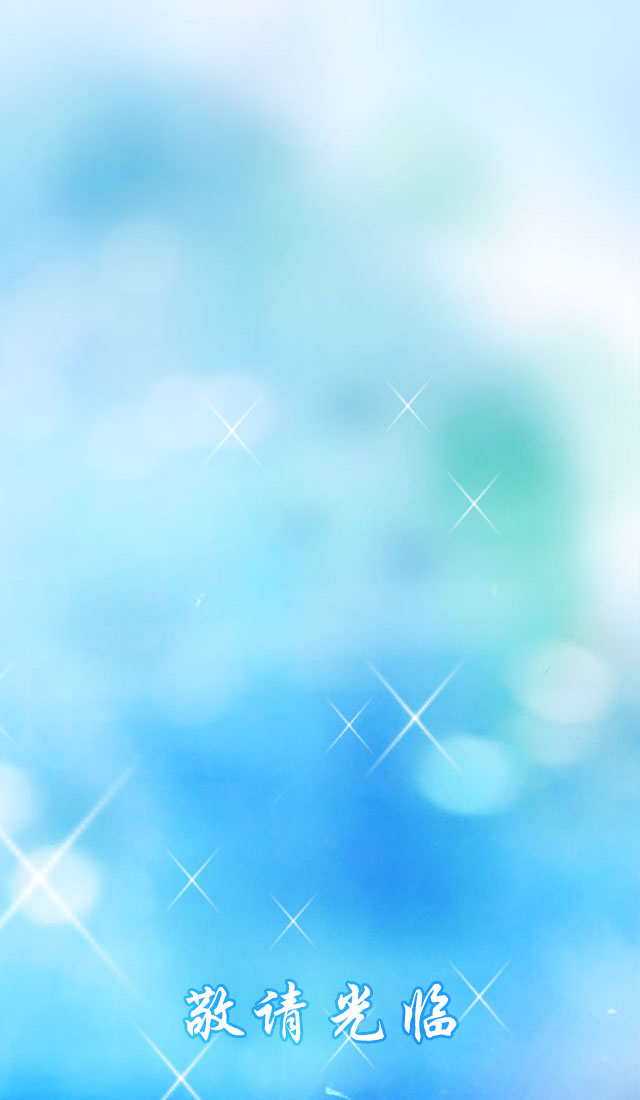
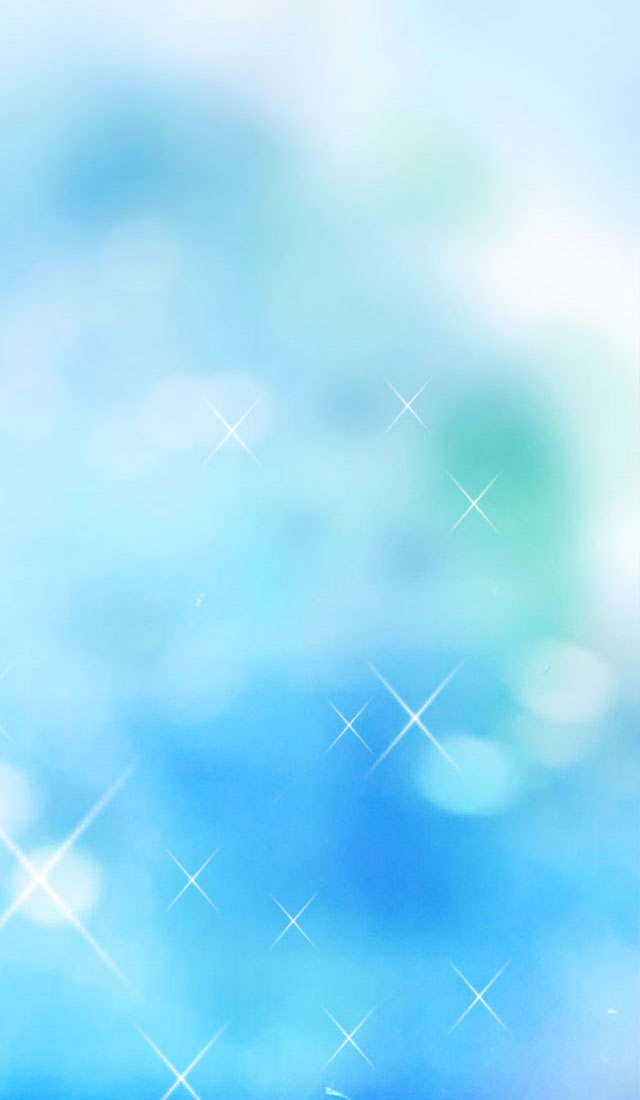
disable audio use a welcome image

Changed region(s): [[0.2812, 0.8655, 0.7188, 0.9582]]

diff --git a/wedding/init.min.js b/wedding/init.min.js
@@ -1,14 +1,14 @@
-$(document).ready(function(){var a=/(WindowsNT)|(Windows NT)|(Macintosh)/i.test(navigator.userAgent);var f=$(window);h=!a?f.height():480,w=f.width(),p=$(".page"),pos={},mousedown=null,direct=null,current=0,items=$(".item"),total=items.size(),map=null,tip=$("#tip"),tipStopped=false;
-function e(k,j,m,l){return Math.abs(k-j)>=Math.abs(m-l)?(k-j>100?"left":(k-j<-100?"right":"middle")):(m-l>100?"up":(m-l<-100?"down":"middle"));}function i(j){if(j.target.tagName=="IMG"){if(j.type=="touchstart"){pos.x1=window.event.touches[0].pageX;
-pos.y1=window.event.touches[0].pageY;}else{pos.x1=j.pageX;pos.y1=j.pageY;}mousedown=true;}}function b(k){if(!mousedown){return false;}k.preventDefault();
-k.stopPropagation();if(k.type=="touchmove"){pos.x2=window.event.touches[0].pageX;pos.y2=window.event.touches[0].pageY;}else{pos.x2=k.pageX;pos.y2=k.pageY;
-}direct=e(pos.x1,pos.x2,pos.y1,pos.y2);var j=0;switch(direct){case"left":if(current==total-1){current=-1;}j=1;break;case"right":if(current==0){current=total;
-}j=-1;break;}if(j!=0&&$(".page.show").find(".first").length){items.eq(current+j).addClass("active").css("left",w*j).css("left",w*j+(pos.x2-pos.x1));}}function g(k){if(!mousedown){return false;
-}if(k.type=="touchend"){pos.x2=window.event.changedTouches[0].pageX;pos.y2=window.event.changedTouches[0].pageY;}else{pos.x2=k.pageX;pos.y2=k.pageY;}direct=e(pos.x1,pos.x2,pos.y1,pos.y2);
-mousedown=null;var j=0;switch(direct){case"left":j=1;break;case"right":if(current==0){break;}j=-1;break;}if(j!=0&&$(".page.show").find(".first").length){items.eq(current+j).animate({left:0},150,function(){items.eq(current).removeClass("show active").addClass("hide");
-items.eq(current+j).removeClass("active hide").addClass("show");current=current+j;if(current==total-1&&!map){map=new BMap.Map("map");map.centerAndZoom(new BMap.Point(112.370064,28.570986),17);
-var m=new BMap.Marker(new BMap.Point(112.370064,28.570186));map.addOverlay(m);var l=new BMap.InfoWindow("世纪豪廷大酒店五楼紫光阁<br/>电话:17096701027 15616168974");
-m.openInfoWindow(l);m.addEventListener("click",function(){this.openInfoWindow(l);});}if(!tipStopped){tipStopped=true;tip.hide();}});}}$(".invitation").height(h);
-p.bind("mousedown touchstart",i);p.bind("mousemove touchmove",b);p.bind("mouseup touchend mouseout",g);function c(){if(tipStopped){return;}tip.css({"margin-left":"-32px",opacity:1});
-tip.animate({"margin-left":"-=100px",opacity:0},1000,"swing",function(){setTimeout(c,800);});}if(/i(Phone|P(o|a)d)/.test(navigator.userAgent)){$(document).one("touchstart",function(j){document.getElementById("audio_play").play();
-});}var d=new Image();d.src=ctx+"1.jpg";d.onload=function(){$(".loading").hide();setTimeout(c,800);};});
+$(document).ready(function(){var a=/(WindowsNT)|(Windows NT)|(Macintosh)/i.test(navigator.userAgent);var g=$(window);h=!a?g.height():480,w=g.width(),p=$(".page"),pos={},d=75,mousedown=null,direct=null,current=0,items=$(".item"),total=items.size(),map=null,tip=$("#tip"),tipStopped=false;
+function f(l,k,n,m){return Math.abs(l-k)>=Math.abs(n-m)?(l-k>d?"left":(l-k<-d?"right":"middle")):(n-m>d?"up":(n-m<-d?"down":"middle"));}function j(k){if(k.target.tagName=="IMG"){if(k.type=="touchstart"){pos.x1=window.event.touches[0].pageX;
+pos.y1=window.event.touches[0].pageY;}else{pos.x1=k.pageX;pos.y1=k.pageY;}mousedown=true;}}function b(l){if(!mousedown){return false;}l.preventDefault();
+l.stopPropagation();if(l.type=="touchmove"){pos.x2=window.event.touches[0].pageX;pos.y2=window.event.touches[0].pageY;}else{pos.x2=l.pageX;pos.y2=l.pageY;
+}direct=f(pos.x1,pos.x2,pos.y1,pos.y2);var k=0;switch(direct){case"left":if(current==total-1){current=-1;}k=1;break;case"right":if(current==0){current=total;
+}k=-1;break;}if(k!=0&&$(".page.show").find(".first").length){items.eq(current+k).addClass("active").css("left",w*k).css("left",w*k+(pos.x2-pos.x1));}}function i(l){if(!mousedown){return false;
+}if(l.type=="touchend"){pos.x2=window.event.changedTouches[0].pageX;pos.y2=window.event.changedTouches[0].pageY;}else{pos.x2=l.pageX;pos.y2=l.pageY;}direct=f(pos.x1,pos.x2,pos.y1,pos.y2);
+mousedown=null;var k=0;switch(direct){case"left":k=1;break;case"right":if(current==0){break;}k=-1;break;}if(k!=0&&$(".page.show").find(".first").length){items.eq(current+k).animate({left:0},150,function(){items.eq(current).removeClass("show active").addClass("hide");
+items.eq(current+k).removeClass("active hide").addClass("show");current=current+k;if(current==total-1&&!map){map=new BMap.Map("map");map.centerAndZoom(new BMap.Point(112.370064,28.570986),17);
+var n=new BMap.Marker(new BMap.Point(112.370064,28.570186));map.addOverlay(n);var m=new BMap.InfoWindow("世纪豪廷大酒店五楼紫光阁<br/>电话:17096701027 15616168974");
+n.openInfoWindow(m);n.addEventListener("click",function(){this.openInfoWindow(m);});}if(!tipStopped){tipStopped=true;tip.hide();}});}}$(".invitation").height(h);
+p.bind("mousedown touchstart",j);p.bind("mousemove touchmove",b);p.bind("mouseup touchend mouseout",i);function c(){if(tipStopped){return;}tip.css({"margin-left":"-32px",opacity:1});
+tip.animate({"margin-left":"-=100px",opacity:0},1000,"swing",function(){setTimeout(c,800);});}var e=new Image();e.src=ctx+"1.jpg";e.onload=function(){$(".loading").hide();
+setTimeout(c,800);};});

diff --git a/_posts/2014-08-10-wedding.html b/_posts/2014-08-10-wedding.html
@@ -4,28 +4,28 @@
 	<meta charset="utf-8">
 	<title>20140920彭畅&hearts;蔡山</title>
 	<meta name="viewport" content="user-scalable=no,width=device-width,initial-scale=1.0">
-	<link rel="stylesheet" href="{{ site.baseurl }}/wedding/style.min.css">
-	<script type="text/javascript" src="{{ site.baseurl }}/wedding/jquery.min.js"></script>
+	<link rel="stylesheet" href="../wedding/style.min.css">
+	<script type="text/javascript" src="../wedding/jquery.min.js"></script>
 	<script type="text/javascript">
-	var ctx = '{{ site.baseurl }}/wedding/';
+	var ctx = '../wedding/';
 	</script>
 </head>
 <body>
-	<div class="loading"><img src="{{ site.baseurl }}/wedding/loading.gif" style="margin:0 0 -50px -50px"></div>
+	<div class="loading"><img src="../wedding/loading.gif" style="margin:0 0 -50px -50px"></div>
 	<div class="main">
 		<div class="content">
 			<div class="invitation show page" style="overflow:hidden">
-				<ul class="item first"><img src="{{ site.baseurl }}/wedding/1.jpg"></ul>
-				<ul class="item hide"><img src="{{ site.baseurl }}/wedding/2.jpg"></ul>
-				<ul class="item hide"><img src="{{ site.baseurl }}/wedding/3.jpg"></ul>
-				<ul class="item hide"><div id="mc"><img src="{{ site.baseurl }}/wedding/4.jpg"><div id="map"/></div></ul>
+				<ul class="item first"><img src="../wedding/1.jpg"></ul>
+				<ul class="item hide"><img src="../wedding/2.jpg"></ul>
+				<ul class="item hide"><img src="../wedding/3.jpg"></ul>
+				<ul class="item hide"><div id="mc"><img src="../wedding/4.jpg"><img id="wel" src="../wedding/welcome.png"><div id="map"/></div></ul>
 			</div> 
 		</div>
-		<div id="tip"><img src="{{ site.baseurl }}/wedding/swipe-left.png"/></div>
+		<div id="tip"><img src="../wedding/swipe-left.png"/></div>
 	</div>
 
-	<audio src="{{ site.baseurl }}/wedding/bg.mp3" id="audio_play" loop autoplay="autoplay"></audio>
-	<script type="text/javascript" src="{{ site.baseurl }}/wedding/init.min.js"></script>
+	<!--<audio src="../wedding/bg.mp3" id="audio_play" loop autoplay="autoplay"></audio>-->
+	<script type="text/javascript" src="../wedding/init.min.js"></script>
 	<script type="text/javascript" src="http://api.map.baidu.com/api?type=quick&ak=kwgiPI8Ky6keCNP79B8PuG28&v=1.0"></script>
 	<!--<script type="text/javascript" src="http://api.map.baidu.com/api?v=2.0&ak=kwgiPI8Ky6keCNP79B8PuG28"></script>-->
 </body>

diff --git a/wedding/init.js b/wedding/init.js
@@ -5,6 +5,7 @@ $(document).ready(function() {
         w = win.width(),
         p = $(".page"),
         pos = {},
+        d = 75,
         mousedown = null,
         direct = null,
         current = 0,
@@ -15,7 +16,7 @@ $(document).ready(function() {
 		tipStopped = false;
 
     function swipeDirection(x1, x2, y1, y2) {
-        return Math.abs(x1-x2) >=Math.abs(y1-y2) ? (x1-x2>100 ? "left" : (x1-x2<-100 ? "right" : "middle")) : (y1-y2 > 100 ? "up" : (y1-y2<-100 ? "down" : "middle"));
+        return Math.abs(x1-x2) >=Math.abs(y1-y2) ? (x1-x2>d ? "left" : (x1-x2<-d ? "right" : "middle")) : (y1-y2 > d ? "up" : (y1-y2<-d ? "down" : "middle"));
     }
 
     function touchstart(e) {
@@ -132,11 +133,11 @@ $(document).ready(function() {
 		});
 	}
 
-    if(/i(Phone|P(o|a)d)/.test(navigator.userAgent)) {
-        $(document).one('touchstart', function (e) { 
-           document.getElementById("audio_play").play(); 
-        });
-    }
+    // if(/i(Phone|P(o|a)d)/.test(navigator.userAgent)) {
+    //     $(document).one('touchstart', function (e) { 
+    //        document.getElementById("audio_play").play(); 
+    //     });
+    // }
     var _img = new Image();
     _img.src = ctx + "1.jpg";
     _img.onload = function () {

diff --git a/wedding/style.min.css b/wedding/style.min.css
@@ -7,3 +7,4 @@ em{font-style:normal}img{border:0}.content{position:relative;z-index:2}@media sc
 .invitation{position:relative;height:100%}.item{position:absolute;left:0;top:0;width:100%;height:100%}.item.show{z-index:10;display:block;background-size:100%}
 .item.hide{z-index:5;display:none}.item.active{z-index:15;display:block;background-size:100%}.item img{width:100%;height:auto;vertical-align:top}#mc{position:relative;width:100%;height:100%}
 #map{width:90%;height:80%;overflow:hidden;left:0;top:0;margin:0;position:absolute!important;margin:5%}#tip{position:absolute;left:50%;bottom:0;z-index:20;margin-left:-32px;opacity:0}
+#wel{position:absolute;left:50%;bottom:2%;margin-left:-90px;width:180px}

diff --git a/wedding/style.css b/wedding/style.css
@@ -26,3 +26,4 @@ img{border:0}
 #mc {position:relative;width:100%;height:100%;}
 #map {width:90%; height:80%; overflow:hidden; left:0; top:0; margin:0; position:absolute!important;margin: 5%;}
 #tip {position:absolute;left:50%;bottom:0;z-index:20;margin-left:-32px;opacity:0;}
+#wel {position: absolute;left:50%;bottom: 2%;margin-left: -90px;width:180px;}
